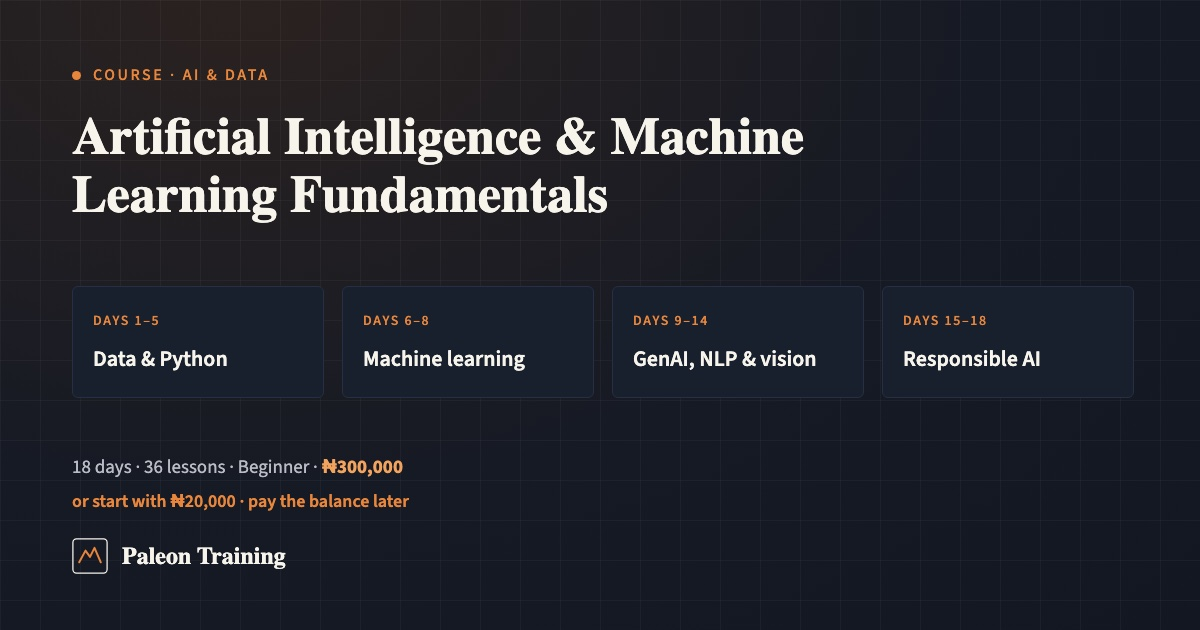
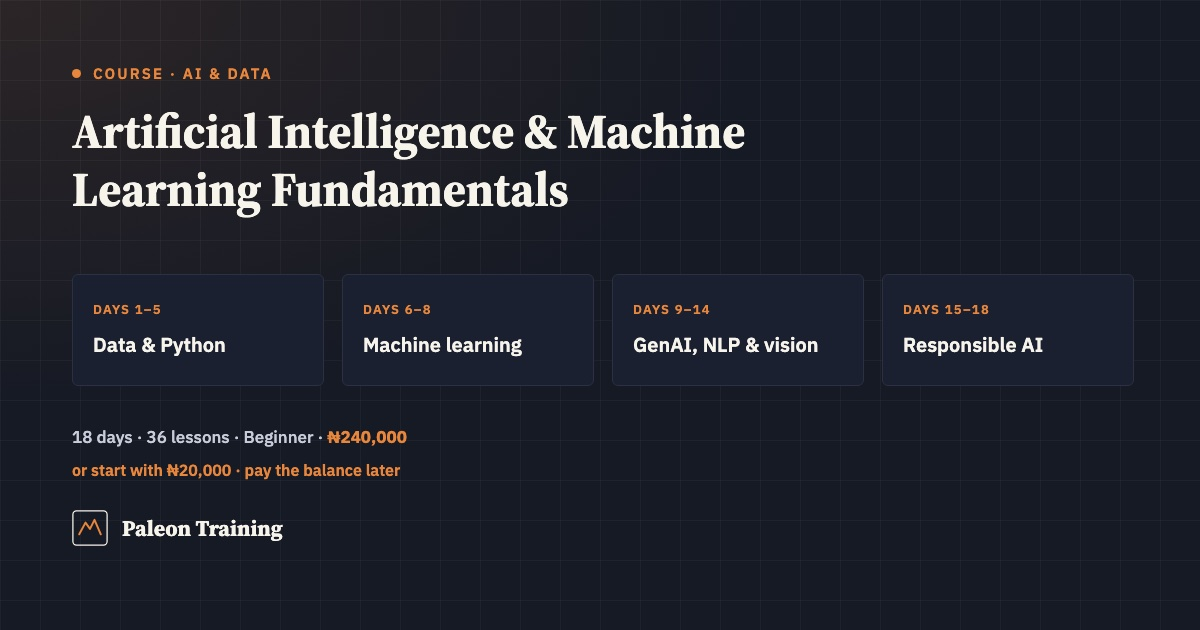
Prices: Data Analytics N250,000, AI & Machine Learning N240,000
- Data Analytics & BI: N250,000 (was N195,000); GH₵2,190, KSh 24,125, R3,090
- AI & Machine Learning: N240,000 (was N300,000); GH₵2,100, KSh 23,160, R2,965
- Local fees at the same rates as the other courses; deposits unchanged, so the
  Nigerian balances are N230,000 and N220,000
- Both Nigerian course pages, share images, search index and the process page
  updated; tests check all four countries

diff --git a/backend/src/marketing/data-analytics-business-intelligence-course.html b/backend/src/marketing/data-analytics-business-intelligence-course.html
@@ -44,7 +44,7 @@
     {
       "@type": "Offer",
       "category": "Paid",
-      "price": 195000,
+      "price": 250000,
       "priceCurrency": "NGN",
       "url": "https://paleontraining.com/data-analytics-business-intelligence-course"
     }
@@ -787,7 +787,7 @@
       <div class="stat"><div class="stat-value">18</div><div class="stat-label">days of curriculum</div></div>
       <div class="stat"><div class="stat-value">72</div><div class="stat-label">lessons, each with a video</div></div>
       <div class="stat"><div class="stat-value">Beginner</div><div class="stat-label">level</div></div>
-      <div class="stat"><div class="stat-value">&#8358;195,000</div><div class="stat-label">course fee, or start with &#8358;20,000</div></div>
+      <div class="stat"><div class="stat-value">&#8358;250,000</div><div class="stat-label">course fee, or start with &#8358;20,000</div></div>
     </div>
     <div class="cta-row">
       <a class="btn btn-signal" href="/register?course=data-analytics-business-intelligence">Start for &#8358;20,000</a>
@@ -811,7 +811,7 @@
       <h2 class="section-title">What is the Data Analytics &amp; Business Intelligence course?</h2>
       <div class="answer">
         <p class="answer-label">In short</p>
-        <p><strong>Data Analytics &amp; Business Intelligence</strong> is a beginner-level online course from Paleon Training: <strong>18 days of curriculum and 72 lessons</strong>. Each lesson is written in plain English and paired with a video, with a quiz and a hands-on assignment every day. The course ends in a capstone analysis with a dashboard, report and presentation. The course fee is <strong>&#8358;195,000</strong>.</p>
+        <p><strong>Data Analytics &amp; Business Intelligence</strong> is a beginner-level online course from Paleon Training: <strong>18 days of curriculum and 72 lessons</strong>. Each lesson is written in plain English and paired with a video, with a quiz and a hands-on assignment every day. The course ends in a capstone analysis with a dashboard, report and presentation. The course fee is <strong>&#8358;250,000</strong>.</p>
       </div>
       <h3 style="font-size:19px;margin:24px 0 8px;">Who it&rsquo;s for</h3>
       <p>Graduates, NYSC members, students and working professionals from any background who want to work with data, whether you are aiming for a data analyst, reporting or business intelligence role, or want to build dashboards and reports in banking, telecoms, oil &amp; gas, business or the public sector. No data, coding or maths background is needed.</p>
@@ -899,8 +899,8 @@
     <div class="measure prose">
       <p class="section-label">Enrolment</p>
       <h2 class="section-title">Fees and how to enrol</h2>
-      <p>The course fee is <strong>&#8358;195,000</strong>. <a href="/register?course=data-analytics-business-intelligence">Create an account</a>, choose Data Analytics &amp; Business Intelligence, and follow the payment instructions shown when you enrol. Lessons unlock once your payment is confirmed. For team or company training, see <a href="/ng/corporate-training">corporate training</a>.</p>
-      <p><strong>Can&rsquo;t pay it all at once? Start with &#8358;20,000.</strong> The deposit unlocks Days 1&ndash;2 straight away. Pay the balance of &#8358;175,000 whenever you&rsquo;re ready to carry on; it unlocks the rest of the course, the capstone project and your certificate. Same total price, no extra fees. Choose &ldquo;Start with &#8358;20,000&rdquo; on the payment page.</p>
+      <p>The course fee is <strong>&#8358;250,000</strong>. <a href="/register?course=data-analytics-business-intelligence">Create an account</a>, choose Data Analytics &amp; Business Intelligence, and follow the payment instructions shown when you enrol. Lessons unlock once your payment is confirmed. For team or company training, see <a href="/ng/corporate-training">corporate training</a>.</p>
+      <p><strong>Can&rsquo;t pay it all at once? Start with &#8358;20,000.</strong> The deposit unlocks Days 1&ndash;2 straight away. Pay the balance of &#8358;230,000 whenever you&rsquo;re ready to carry on; it unlocks the rest of the course, the capstone project and your certificate. Same total price, no extra fees. Choose &ldquo;Start with &#8358;20,000&rdquo; on the payment page.</p>
       <p><a class="btn btn-signal" href="/register?course=data-analytics-business-intelligence">Start for &#8358;20,000</a></p>
       <p>Questions before you enrol? <a href="https://wa.me/447508823495?text=Hello%20Paleon%20Training%2C%20I%20would%20like%20to%20find%20out%20more%20about%20the%20Data%20Analytics%20and%20Business%20Intelligence%20course." target="_blank" rel="noopener">Chat with Paleon on WhatsApp</a> or email <a href="mailto:hello@paleontraining.com">hello@paleontraining.com</a>.</p>
     </div>

diff --git a/backend/src/marketing/ai-machine-learning-fundamentals-course.html b/backend/src/marketing/ai-machine-learning-fundamentals-course.html
@@ -44,7 +44,7 @@
     {
       "@type": "Offer",
       "category": "Paid",
-      "price": 300000,
+      "price": 240000,
       "priceCurrency": "NGN",
       "url": "https://paleontraining.com/ai-machine-learning-fundamentals-course"
     }
@@ -787,7 +787,7 @@
       <div class="stat"><div class="stat-value">18</div><div class="stat-label">days of curriculum</div></div>
       <div class="stat"><div class="stat-value">36</div><div class="stat-label">lessons, each with a video</div></div>
       <div class="stat"><div class="stat-value">Beginner</div><div class="stat-label">level</div></div>
-      <div class="stat"><div class="stat-value">&#8358;300,000</div><div class="stat-label">course fee, or start with &#8358;20,000</div></div>
+      <div class="stat"><div class="stat-value">&#8358;240,000</div><div class="stat-label">course fee, or start with &#8358;20,000</div></div>
     </div>
     <div class="cta-row">
       <a class="btn btn-signal" href="/register?course=ai-machine-learning-fundamentals">Start for &#8358;20,000</a>
@@ -811,7 +811,7 @@
       <h2 class="section-title">What is the AI &amp; Machine Learning Fundamentals course?</h2>
       <div class="answer">
         <p class="answer-label">In short</p>
-        <p><strong>AI &amp; Machine Learning Fundamentals</strong> is a beginner-level online course from Paleon Training: <strong>18 days of curriculum and 36 lessons</strong>. Each lesson is written in plain English and paired with a video, with a quiz and a hands-on assignment every day. The course ends in a capstone AI project. The course fee is <strong>&#8358;300,000</strong>.</p>
+        <p><strong>AI &amp; Machine Learning Fundamentals</strong> is a beginner-level online course from Paleon Training: <strong>18 days of curriculum and 36 lessons</strong>. Each lesson is written in plain English and paired with a video, with a quiz and a hands-on assignment every day. The course ends in a capstone AI project. The course fee is <strong>&#8358;240,000</strong>.</p>
       </div>
       <h3 style="font-size:19px;margin:24px 0 8px;">Who it&rsquo;s for</h3>
       <p>Graduates, NYSC members, students and working professionals from any background who want to understand AI and use it at work, whether you are aiming for a data or AI role or want AI skills in banking, telecoms, oil &amp; gas, business or the public sector. No coding, maths or AI background is needed.</p>
@@ -899,8 +899,8 @@
     <div class="measure prose">
       <p class="section-label">Enrolment</p>
       <h2 class="section-title">Fees and how to enrol</h2>
-      <p>The course fee is <strong>&#8358;300,000</strong>. <a href="/register?course=ai-machine-learning-fundamentals">Create an account</a>, choose AI &amp; Machine Learning Fundamentals, and follow the payment instructions shown when you enrol. Lessons unlock once your payment is confirmed. For team or company training, see <a href="/ng/corporate-training">corporate training</a>.</p>
-      <p><strong>Can&rsquo;t pay it all at once? Start with &#8358;20,000.</strong> The deposit unlocks Days 1&ndash;2 straight away. Pay the balance of &#8358;280,000 whenever you&rsquo;re ready to carry on; it unlocks the rest of the course, the capstone project and your certificate. Same total price, no extra fees. Choose &ldquo;Start with &#8358;20,000&rdquo; on the payment page.</p>
+      <p>The course fee is <strong>&#8358;240,000</strong>. <a href="/register?course=ai-machine-learning-fundamentals">Create an account</a>, choose AI &amp; Machine Learning Fundamentals, and follow the payment instructions shown when you enrol. Lessons unlock once your payment is confirmed. For team or company training, see <a href="/ng/corporate-training">corporate training</a>.</p>
+      <p><strong>Can&rsquo;t pay it all at once? Start with &#8358;20,000.</strong> The deposit unlocks Days 1&ndash;2 straight away. Pay the balance of &#8358;220,000 whenever you&rsquo;re ready to carry on; it unlocks the rest of the course, the capstone project and your certificate. Same total price, no extra fees. Choose &ldquo;Start with &#8358;20,000&rdquo; on the payment page.</p>
       <p><a class="btn btn-signal" href="/register?course=ai-machine-learning-fundamentals">Start for &#8358;20,000</a></p>
       <p>Questions before you enrol? <a href="https://wa.me/447508823495?text=Hello%20Paleon%20Training%2C%20I%20would%20like%20to%20find%20out%20more%20about%20the%20AI%20and%20Machine%20Learning%20Fundamentals%20course." target="_blank" rel="noopener">Chat with Paleon on WhatsApp</a> or email <a href="mailto:hello@paleontraining.com">hello@paleontraining.com</a>.</p>
     </div>

diff --git a/backend/src/constants/countries.ts b/backend/src/constants/countries.ts
@@ -225,10 +225,10 @@ export const COUNTRIES: Record<CountryCode, CountryInfo> = {
         "gis-and-drone-mapping": 1750,
         "digital-marketing": 1300,
         "hse-fundamentals": 865,
-        // 2026-10-31: 300,000 NGN at the same rate as the other fees here; confirmed by the owner.
-        "ai-machine-learning-fundamentals": 2625,
-        // \u20A6195,000 at the same rate as the other courses (2026-11-15).
-        "data-analytics-business-intelligence": 1705,
+        // \u20A6240,000 at the same rate as the other fees here (owner, 2026-11-15; was \u20A6300,000).
+        "ai-machine-learning-fundamentals": 2100,
+        // \u20A6250,000 at the same rate as the other fees here (owner, 2026-11-15).
+        "data-analytics-business-intelligence": 2190,
       },
       deposit: 175,
       paymentMethods: "MTN MoMo \u00b7 Telecel Cash \u00b7 Card",
@@ -330,10 +330,10 @@ export const COUNTRIES: Record<CountryCode, CountryInfo> = {
         "gis-and-drone-mapping": 19300,
         "digital-marketing": 14475,
         "hse-fundamentals": 9650,
-        // 2026-10-31: 300,000 NGN at the same rate as the other fees here; confirmed by the owner.
-        "ai-machine-learning-fundamentals": 28950,
-        // \u20A6195,000 at the same rate as the other courses (2026-11-15).
-        "data-analytics-business-intelligence": 18820,
+        // \u20A6240,000 at the same rate as the other fees here (owner, 2026-11-15; was \u20A6300,000).
+        "ai-machine-learning-fundamentals": 23160,
+        // \u20A6250,000 at the same rate as the other fees here (owner, 2026-11-15).
+        "data-analytics-business-intelligence": 24125,
       },
       deposit: 1930,
       paymentMethods: "M-Pesa \u00b7 Card",
@@ -397,10 +397,10 @@ export const COUNTRIES: Record<CountryCode, CountryInfo> = {
         "gis-and-drone-mapping": 2470,
         "digital-marketing": 1850,
         "hse-fundamentals": 1235,
-        // 2026-10-31: 300,000 NGN at the same rate as the other fees here; confirmed by the owner.
-        "ai-machine-learning-fundamentals": 3705,
-        // \u20A6195,000 at the same rate as the other courses (2026-11-15).
-        "data-analytics-business-intelligence": 2410,
+        // \u20A6240,000 at the same rate as the other fees here (owner, 2026-11-15; was \u20A6300,000).
+        "ai-machine-learning-fundamentals": 2965,
+        // \u20A6250,000 at the same rate as the other fees here (owner, 2026-11-15).
+        "data-analytics-business-intelligence": 3090,
       },
       deposit: 247,
       paymentMethods: "Card \u00b7 EFT",

diff --git a/backend/test/integration/country-course-pages.test.ts b/backend/test/integration/country-course-pages.test.ts
@@ -67,15 +67,31 @@ describe("Country course pages", () => {
     expect(res.text).not.toMatch(/<script(?![^>]*(?:\bsrc=|type="application\/(?:ld\+)?json"))[^>]*>/);
   });
 
-  it("prices Data Analytics at ₦195,000 and the same rate as the other courses abroad (2026-11-15)", async () => {
+  it("prices Data Analytics at ₦250,000 and the same rate as the other courses abroad (2026-11-15)", async () => {
     const ng = await request(app).get("/data-analytics-business-intelligence-course");
-    expect(ng.text).toContain("&#8358;195,000");
-    expect(ng.text).toContain("&#8358;175,000");
-    expect(ng.text).toMatch(/"price": ?195000/);
+    expect(ng.text).toContain("&#8358;250,000");
+    expect(ng.text).toContain("&#8358;230,000");
+    expect(ng.text).toMatch(/"price": ?250000/);
     for (const [path, fee] of [
-      ["/gh/data-analytics-business-intelligence-course", "GH₵1,705"],
-      ["/ke/data-analytics-business-intelligence-course", "KSh 18,820"],
-      ["/za/data-analytics-business-intelligence-course", "R2,410"],
+      ["/gh/data-analytics-business-intelligence-course", "GH₵2,190"],
+      ["/ke/data-analytics-business-intelligence-course", "KSh 24,125"],
+      ["/za/data-analytics-business-intelligence-course", "R3,090"],
+    ]) {
+      const res = await request(app).get(path);
+      expect(main(res.text)).toContain(fee);
+    }
+  });
+
+  it("prices AI & Machine Learning at ₦240,000 and the same rate abroad (2026-11-15)", async () => {
+    const ng = await request(app).get("/ai-machine-learning-fundamentals-course");
+    expect(ng.text).toContain("&#8358;240,000");
+    expect(ng.text).toContain("&#8358;220,000");
+    expect(ng.text).not.toContain("300,000");
+    expect(ng.text).toMatch(/"price": ?240000/);
+    for (const [path, fee] of [
+      ["/gh/ai-machine-learning-fundamentals-course", "GH₵2,100"],
+      ["/ke/ai-machine-learning-fundamentals-course", "KSh 23,160"],
+      ["/za/ai-machine-learning-fundamentals-course", "R2,965"],
     ]) {
       const res = await request(app).get(path);
       expect(main(res.text)).toContain(fee);

diff --git a/backend/test/integration/country-homepages.test.ts b/backend/test/integration/country-homepages.test.ts
@@ -54,12 +54,12 @@ describe("Country homepages", () => {
   });
 
   it("shows the Data Analytics card on every country page in the same format, in local money (2026-11-15)", async () => {
-    expect(COURSE_PRICES_NGN["data-analytics-business-intelligence"]).toBe(195_000);
+    expect(COURSE_PRICES_NGN["data-analytics-business-intelligence"]).toBe(250_000);
     for (const [path, fee, deposit] of [
-      ["/ng", "₦195,000", "₦20,000"],
-      ["/gh", "GH₵1,705", "GH₵175"],
-      ["/ke", "KSh 18,820", "KSh 1,930"],
-      ["/za", "R2,410", "R247"],
+      ["/ng", "₦250,000", "₦20,000"],
+      ["/gh", "GH₵2,190", "GH₵175"],
+      ["/ke", "KSh 24,125", "KSh 1,930"],
+      ["/za", "R3,090", "R247"],
     ]) {
       const res = await request(app).get(path);
       const cards = res.text.match(/<article class="course-card">[\s\S]*?<\/article>/g) ?? [];

diff --git a/backend/src/marketing/trainingportalprocess.html b/backend/src/marketing/trainingportalprocess.html
@@ -624,12 +624,18 @@
             <td class="course-name">AI &amp; Machine Learning Fundamentals</td>
             <td class="num">18</td>
             <td class="num">36</td>
-            <td class="num">300,000</td>
+            <td class="num">240,000</td>
+          </tr>
+          <tr>
+            <td class="course-name">Data Analytics &amp; Business Intelligence</td>
+            <td class="num">18</td>
+            <td class="num">72</td>
+            <td class="num">250,000</td>
           </tr>
           <tr class="total">
-            <td>All five courses</td>
-            <td class="num">61</td>
-            <td class="num">122</td>
+            <td>All six courses</td>
+            <td class="num">79</td>
+            <td class="num">194</td>
             <td class="num">&mdash;</td>
           </tr>
         </tbody>

diff --git a/backend/src/constants/coursePricing.ts b/backend/src/constants/coursePricing.ts
@@ -8,8 +8,8 @@ export const COURSE_PRICES_NGN: Record<string, number> = {
   "digital-marketing": 150_000,
   "gis-and-drone-mapping": 200_000,
   "hse-fundamentals": 100_000,
-  "ai-machine-learning-fundamentals": 300_000,
-  "data-analytics-business-intelligence": 195_000,
+  "ai-machine-learning-fundamentals": 240_000,
+  "data-analytics-business-intelligence": 250_000,
   "renewable-energy-digital-systems": 250_000,
   "social-media-management-content": 150_000,
 };
